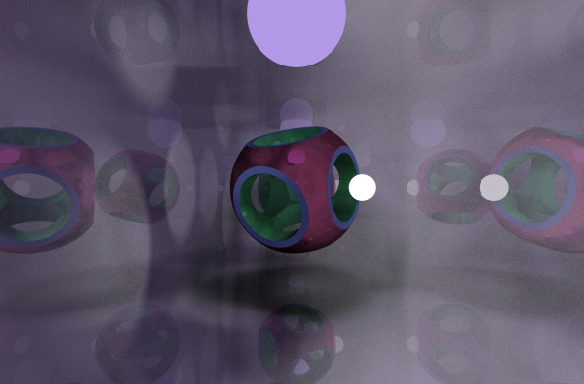
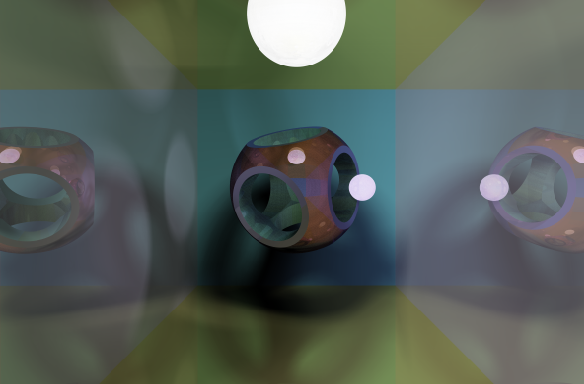
Better example and a small trick to remove graininess.

diff --git a/CSGPathTracer/main.cpp b/CSGPathTracer/main.cpp
@@ -39,12 +39,14 @@ void createDataBuffer()
 {
 	if (zippedComponentsDevice == NULL)
 	{
-		auto whiteShader = PathTracer::Shading::Shader(PathTracer::Shading::ShaderType::Uniform, PathTracer::Shading::Shading(0, 0.7, 0.3, 0.5, 0, PathTracer::Shading::Color(0.9, 0.9, 0.9)));
-		auto redShader = PathTracer::Shading::Shader(PathTracer::Shading::ShaderType::Uniform, PathTracer::Shading::Shading(0, 0.7, 0.3, 1., 0, PathTracer::Shading::Color(0.9, 0.4, 0.6)));
-		auto greenShader = PathTracer::Shading::Shader(PathTracer::Shading::ShaderType::Uniform, PathTracer::Shading::Shading(0, 0.7, 0.3, 0.3, 0, PathTracer::Shading::Color(0.4, 0.9, 0.6)));
-		auto blueShader = PathTracer::Shading::Shader(PathTracer::Shading::ShaderType::Uniform, PathTracer::Shading::Shading(0, 0.7, 0.3, 0.8, 0, PathTracer::Shading::Color(0.5, 0.6, 0.9)));
+		auto wallShaderA = PathTracer::Shading::Shader(PathTracer::Shading::ShaderType::Uniform, PathTracer::Shading::Shading(0, 0.7, 0.3, 0.5, 0, PathTracer::Shading::Color(0.9, 0.9, 0.9)));
+		auto wallShaderB = PathTracer::Shading::Shader(PathTracer::Shading::ShaderType::Uniform, PathTracer::Shading::Shading(0, 0.7, 0.3, 0.5, 0, PathTracer::Shading::Color(0.9, 0.9, 0.5)));
+		auto wallShaderC = PathTracer::Shading::Shader(PathTracer::Shading::ShaderType::Uniform, PathTracer::Shading::Shading(0, 0.7, 0.3, 0, 0, PathTracer::Shading::Color(0.5, 0.9, 0.9)));
+		auto redShader = PathTracer::Shading::Shader(PathTracer::Shading::ShaderType::Uniform, PathTracer::Shading::Shading(0, 0.7, 0.3, 1., 0, PathTracer::Shading::Color(0.9, 0.6, 0.8)));
+		auto greenShader = PathTracer::Shading::Shader(PathTracer::Shading::ShaderType::Uniform, PathTracer::Shading::Shading(0, 0.7, 0.3, 0.3, 0, PathTracer::Shading::Color(0.6, 0.9, 0.8)));
+		auto blueShader = PathTracer::Shading::Shader(PathTracer::Shading::ShaderType::Uniform, PathTracer::Shading::Shading(0, 0.7, 0.3, 0.8, 0, PathTracer::Shading::Color(0.6, 0.6, 0.9)));
 		auto emmisiveShaderA = PathTracer::Shading::Shader(PathTracer::Shading::ShaderType::Uniform, PathTracer::Shading::Shading(0.85, 0.7, 0.3, 0.5, 0, PathTracer::Shading::Color(1.f, 1.f, 1.f)));
-		auto emmisiveShaderB = PathTracer::Shading::Shader(PathTracer::Shading::ShaderType::Uniform, PathTracer::Shading::Shading(0.85, 0.7, 0.3, 0.5, 0, PathTracer::Shading::Color(0.7f, 0.6f, 0.9f)));
+		auto emmisiveShaderB = PathTracer::Shading::Shader(PathTracer::Shading::ShaderType::Uniform, PathTracer::Shading::Shading(0.85, 0.7, 0.3, 0.5, 0, PathTracer::Shading::Color(0.8f, 0.7f, 1.0f)));
 
 		scene.components.clear();
 
@@ -82,16 +84,16 @@ void createDataBuffer()
 				)
 		);
 
-		scene.components.push_back(std::make_shared<PathTracer::SceneDefinition::SphereComponent>(Math::AffineTransformation().scale(20, 20, 20).translate(100, 0, 0), emmisiveShaderA));
+		scene.components.push_back(std::make_shared<PathTracer::SceneDefinition::SphereComponent>(Math::AffineTransformation().scale(20, 20, 20).translate(100, 0, 0), emmisiveShaderB));
 
-		scene.components.push_back(std::make_shared<PathTracer::SceneDefinition::PlaneComponent>(Math::AffineTransformation().translate(0, -200, 0), whiteShader));
-		scene.components.push_back(std::make_shared<PathTracer::SceneDefinition::PlaneComponent>(Math::AffineTransformation().translate(0, -200, 0).rotateX(-1.57), whiteShader));
-		scene.components.push_back(std::make_shared<PathTracer::SceneDefinition::PlaneComponent>(Math::AffineTransformation().translate(0, -200, 0).rotateX(3.14), whiteShader));
-		scene.components.push_back(std::make_shared<PathTracer::SceneDefinition::PlaneComponent>(Math::AffineTransformation().translate(0, -200, 0).rotateZ(1.57), whiteShader));
-		scene.components.push_back(std::make_shared<PathTracer::SceneDefinition::PlaneComponent>(Math::AffineTransformation().translate(0, -200, 0).rotateZ(-1.57), whiteShader));
-		scene.components.push_back(std::make_shared<PathTracer::SceneDefinition::PlaneComponent>(Math::AffineTransformation().translate(0, -800, 0).rotateX(1.57), whiteShader));
+		scene.components.push_back(std::make_shared<PathTracer::SceneDefinition::PlaneComponent>(Math::AffineTransformation().translate(0, -200, 0), wallShaderB));
+		scene.components.push_back(std::make_shared<PathTracer::SceneDefinition::PlaneComponent>(Math::AffineTransformation().translate(0, -200, 0).rotateX(-1.57), wallShaderC));
+		scene.components.push_back(std::make_shared<PathTracer::SceneDefinition::PlaneComponent>(Math::AffineTransformation().translate(0, -200, 0).rotateX(3.14), wallShaderB));
+		scene.components.push_back(std::make_shared<PathTracer::SceneDefinition::PlaneComponent>(Math::AffineTransformation().translate(0, -200, 0).rotateZ(1.57), wallShaderA));
+		scene.components.push_back(std::make_shared<PathTracer::SceneDefinition::PlaneComponent>(Math::AffineTransformation().translate(0, -200, 0).rotateZ(-1.57), wallShaderA));
+		scene.components.push_back(std::make_shared<PathTracer::SceneDefinition::PlaneComponent>(Math::AffineTransformation().translate(0, -800, 0).rotateX(1.57), wallShaderC));
 
-		scene.components.push_back(std::make_shared<PathTracer::SceneDefinition::SphereComponent>(Math::AffineTransformation().scale(50, 50, 50).translate(0, 175, -200), emmisiveShaderB));
+		scene.components.push_back(std::make_shared<PathTracer::SceneDefinition::SphereComponent>(Math::AffineTransformation().scale(50, 50, 50).translate(0, 175, -200), emmisiveShaderA));
 
 		size_t newShapesNumber = scene.zipSize();
 		size_t size = newShapesNumber * sizeof(PathTracer::Communication::Component);
